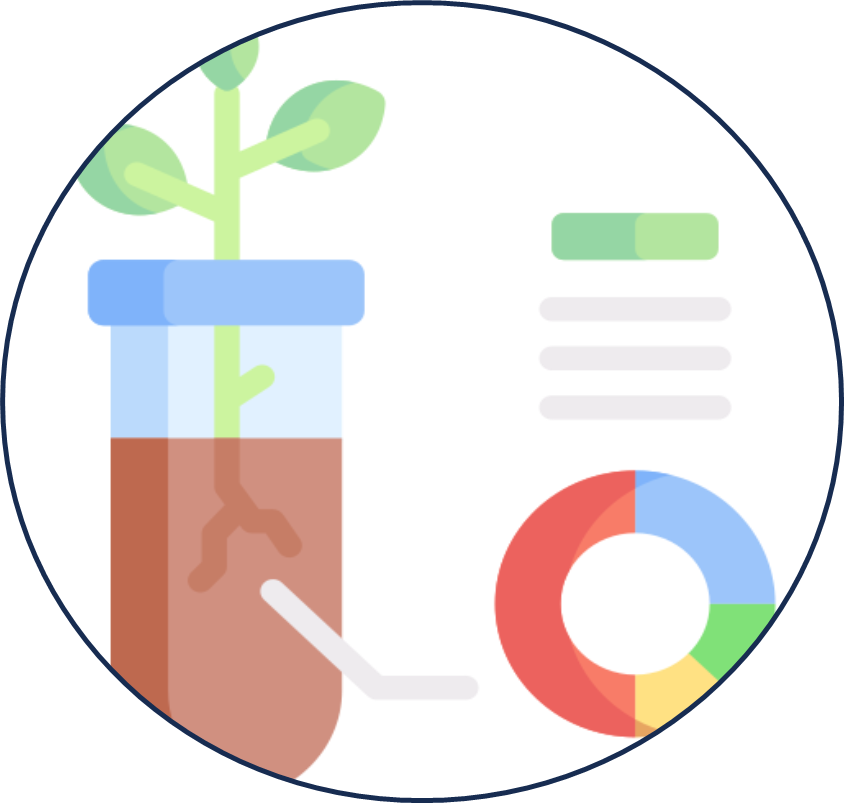
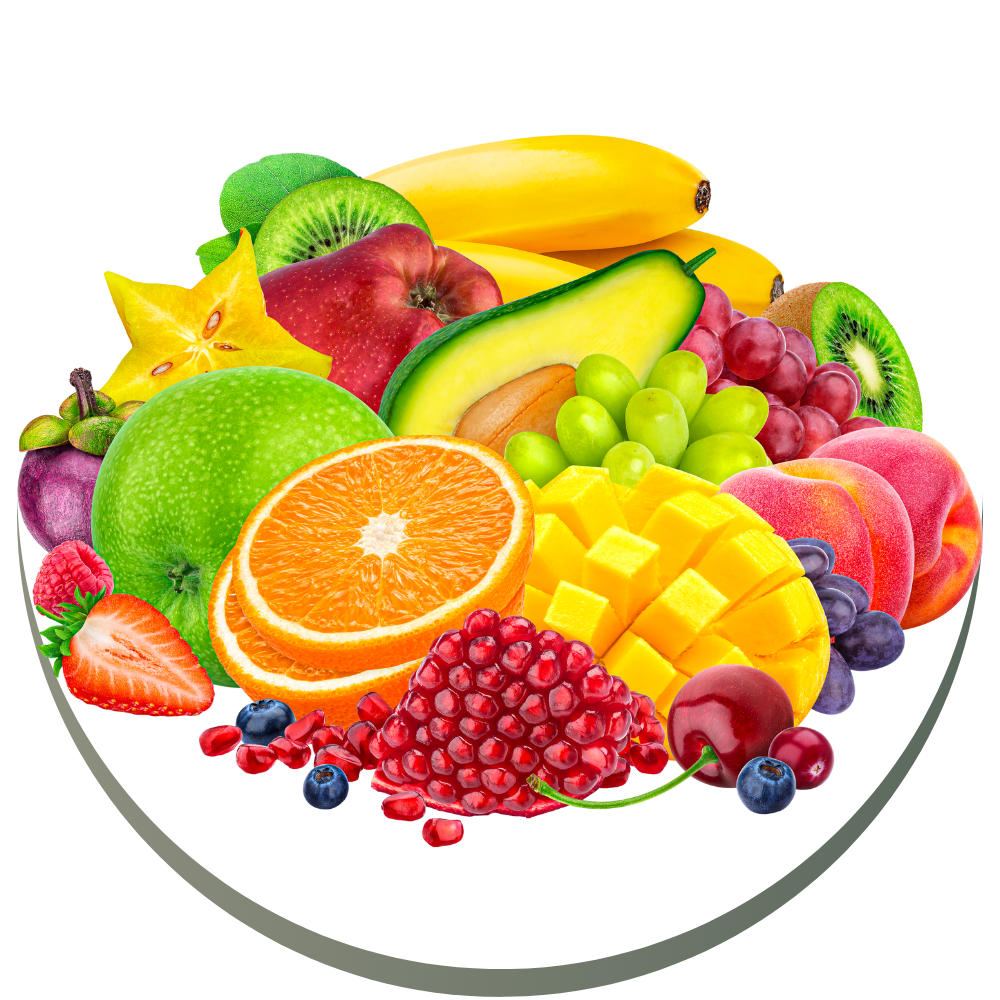
new

diff --git a/app/src/web/admin/src/page/report/statistics/buttonChange.js b/app/src/web/admin/src/page/report/statistics/buttonChange.js
@@ -1,15 +1,79 @@
-import { useContext } from "react"
-import { PageTemplateContext } from "../../PageTemplate"
- 
+import { useContext, useState } from "react";
+import { PageTemplateContext } from "../../PageTemplate";
+import { Modal } from "react-bootstrap";
+
 export default function ButtonChangeStatistics() {
-    const { ChangeStatus } = useContext(PageTemplateContext)
- 
-    return(
-        <div style={{
-            display : "flex"
-        }}>
-            <button style={{ marginRight: "10px", backgroundColor: "red", color: "white" }} >แจ้งเตือน</button>
-            <button className="bt-listlocation" onClick={() => ChangeStatus("listlocation")}>แสดงรายชื่อหมอพืชและที่ปรึกษาเกษตรกร</button>
+    const { ChangeStatus } = useContext(PageTemplateContext);
+    const [popupDataManage, setPopupDataManage] = useState({ open: false });
+    const [stateOnBt, setStateOnBt] = useState(true);
+
+    const handleOpenModal = () => {
+        setPopupDataManage((data) => ({ ...data, open: true }));
+    };
+
+    const handleCloseModal = () => {
+        setPopupDataManage((data) => ({ ...data, open: false }));
+    };
+
+    const Cancel = () => {
+        handleCloseModal();
+    };
+
+    const ClickAdd = () => {
+        console.log("เพิ่มข้อมูลเรียบร้อยแล้ว!");
+        handleCloseModal(); 
+    };
+
+    return (
+        <div style={{ display: "flex" }}>
+            <button 
+                style={{ marginRight: "10px", backgroundColor: "red", color: "white" }} 
+                onClick={handleOpenModal}
+            >
+                แจ้งเตือน
+            </button>
+
+            <button 
+                className="bt-listlocation" 
+                onClick={() => ChangeStatus("listlocation")}
+            >
+                แสดงรายชื่อหมอพืชและที่ปรึกษาเกษตรกร
+            </button>
+
+            <Modal
+                show={popupDataManage.open}
+                onHide={handleCloseModal}
+                aria-labelledby="modal-title"
+                aria-describedby="modal-description"
+                centered
+                size="lg"
+                >
+                <div className="modal-content">
+                    <div className="modal-header">
+                    <h2 id="modal-title">แจ้งเตือนการระบาด</h2>
+                        <button type="button" className="btn-close" onClick={handleCloseModal}>
+                            
+                        </button>
+                    </div>
+
+                    <div className="modal-body">
+                        เนื้อหาของการแจ้งเตือน 
+                    </div>
+
+                    <div className="bt-submitnoty">
+                        <button className="cancel" onClick={Cancel}>
+                            ยกเลิก
+                        </button>
+                        <button
+                            className="submit"
+                            onClick={ClickAdd}
+                            disabled={!stateOnBt}
+                        >
+                            เพิ่มข้อมูล
+                        </button>
+                    </div>
+                </div>
+            </Modal>
         </div>
-    )
+    );
 }

diff --git a/app/src/web/admin/src/assets/style/page/List.scss b/app/src/web/admin/src/assets/style/page/List.scss
@@ -1211,6 +1211,46 @@
     transform: translate(-50%, -50%);
 }
 
+.modal-content {
+    background-color: #fff;
+    border-radius: 8px;
+    width: 100%;
+    margin: auto;
+    max-width: 1500px; 
+    font-size: 16px;
+    font-family: Sans-font;
+    font-weight: bold;
+    box-shadow: 0px 4px 10px rgba(0, 0, 0, 0.2);
+}
+
+.modal-header {
+    display: flex;
+    justify-content: center; 
+    align-items: center; 
+    border-bottom: 1px solid #ddd; 
+    padding: 10px 20px;
+    border: 2px solid #22C7A9
+}
+
+.modal-header h2 {
+    margin: 0;
+    font-size: 20px; 
+    font-weight: bold;
+    text-align: center;
+    flex-grow: 1; 
+}
+
+
+
+
+
+.modal-body {
+    display: grid;
+    grid-template-columns: repeat(3, 1fr); 
+    gap: 10px; /* เพิ่มระยะห่างระหว่างคอลัมน์ */
+}
+
+
 
 .bt-submitgroup {
     display: flex;
@@ -1222,6 +1262,53 @@
 
     button {
         width: 40%;
+        height: 40px;
+        font-size: 18px;
+        font-family: Sans-font;
+        font-weight: 900;
+        border: 0;
+        outline: 0;
+        border-radius: 20px;
+        color: white;
+        cursor: pointer;
+    }
+
+    button.cancel {
+        background: linear-gradient(90deg , #FF0000 , #EB7878);
+        box-shadow: 0px 2px 2px rgb(104, 0, 0);
+    }
+    button.cancel:active {
+        padding-top: 2px;
+        box-shadow: 0px 2px 2px inset rgb(104, 0, 0);
+    }
+
+    button.submit {
+        background: linear-gradient(90deg , #049f9f , #60d6cf);
+        box-shadow: 0px 2px 2px #055a5a;
+    }
+    button.submit:active {
+        padding-top: 2px;
+        box-shadow: 0px 2px 2px inset #055a5a;
+    }
+
+    button.submit[no=""] {
+        cursor: not-allowed;
+        box-shadow: none;
+        background: linear-gradient(90deg , #049f9f8e rgba(96, 214, 206, 0.556));
+        color: rgb(206, 206, 206);
+    }
+}
+
+.bt-submitnoty {
+    display: flex;
+    justify-content: center; 
+    align-items: center; 
+    gap: 35px; /* ระยะห่างระหว่างปุ่ม */
+    margin-top: 20px; 
+    grid-column: 2;
+
+    button {
+        width: 12%;
         height: 40px;
         font-size: 18px;
         font-family: Sans-font;

diff --git a/app/src/web/doctor/src/Login.js b/app/src/web/doctor/src/Login.js
@@ -153,7 +153,6 @@ list.forEach((item) =>
             <PopupDom Ref={Personal} Body={formPersonal} zIndex={5} />
             <div style={{backgroundImage : `url(${env.Background})`}} onLoad={()=>clientMo.unLoadingPage()} ref={Body} className="login-doctor">
                 <form ref={Form} autoComplete="off" onSubmit={submitFrom}>
-                <a href="http://localhost:3003/">Admin</a>
                     <div className="Logo-App">
                         <img src="/logo2.png"></img>
                         <span>หมอพืช</span>

diff --git a/app/src/web/admin/src/Login.js b/app/src/web/admin/src/Login.js
@@ -83,7 +83,6 @@ const Login = ({setBodyFileMain , state = false , socket}) => {
     return (
         <div style={{backgroundImage : `url(${env.Background})`}} onLoad={()=>clientMo.unLoadingPage()} ref={Body} className="login-admin">
             <form ref={Form} autoComplete="off" onSubmit={submitFrom}>
-            <a href="http://localhost:3004/">Doctor</a>
                 <div className="Logo-App">
                     <img src="/logo2.png"></img>
                     <span>Admin</span>
